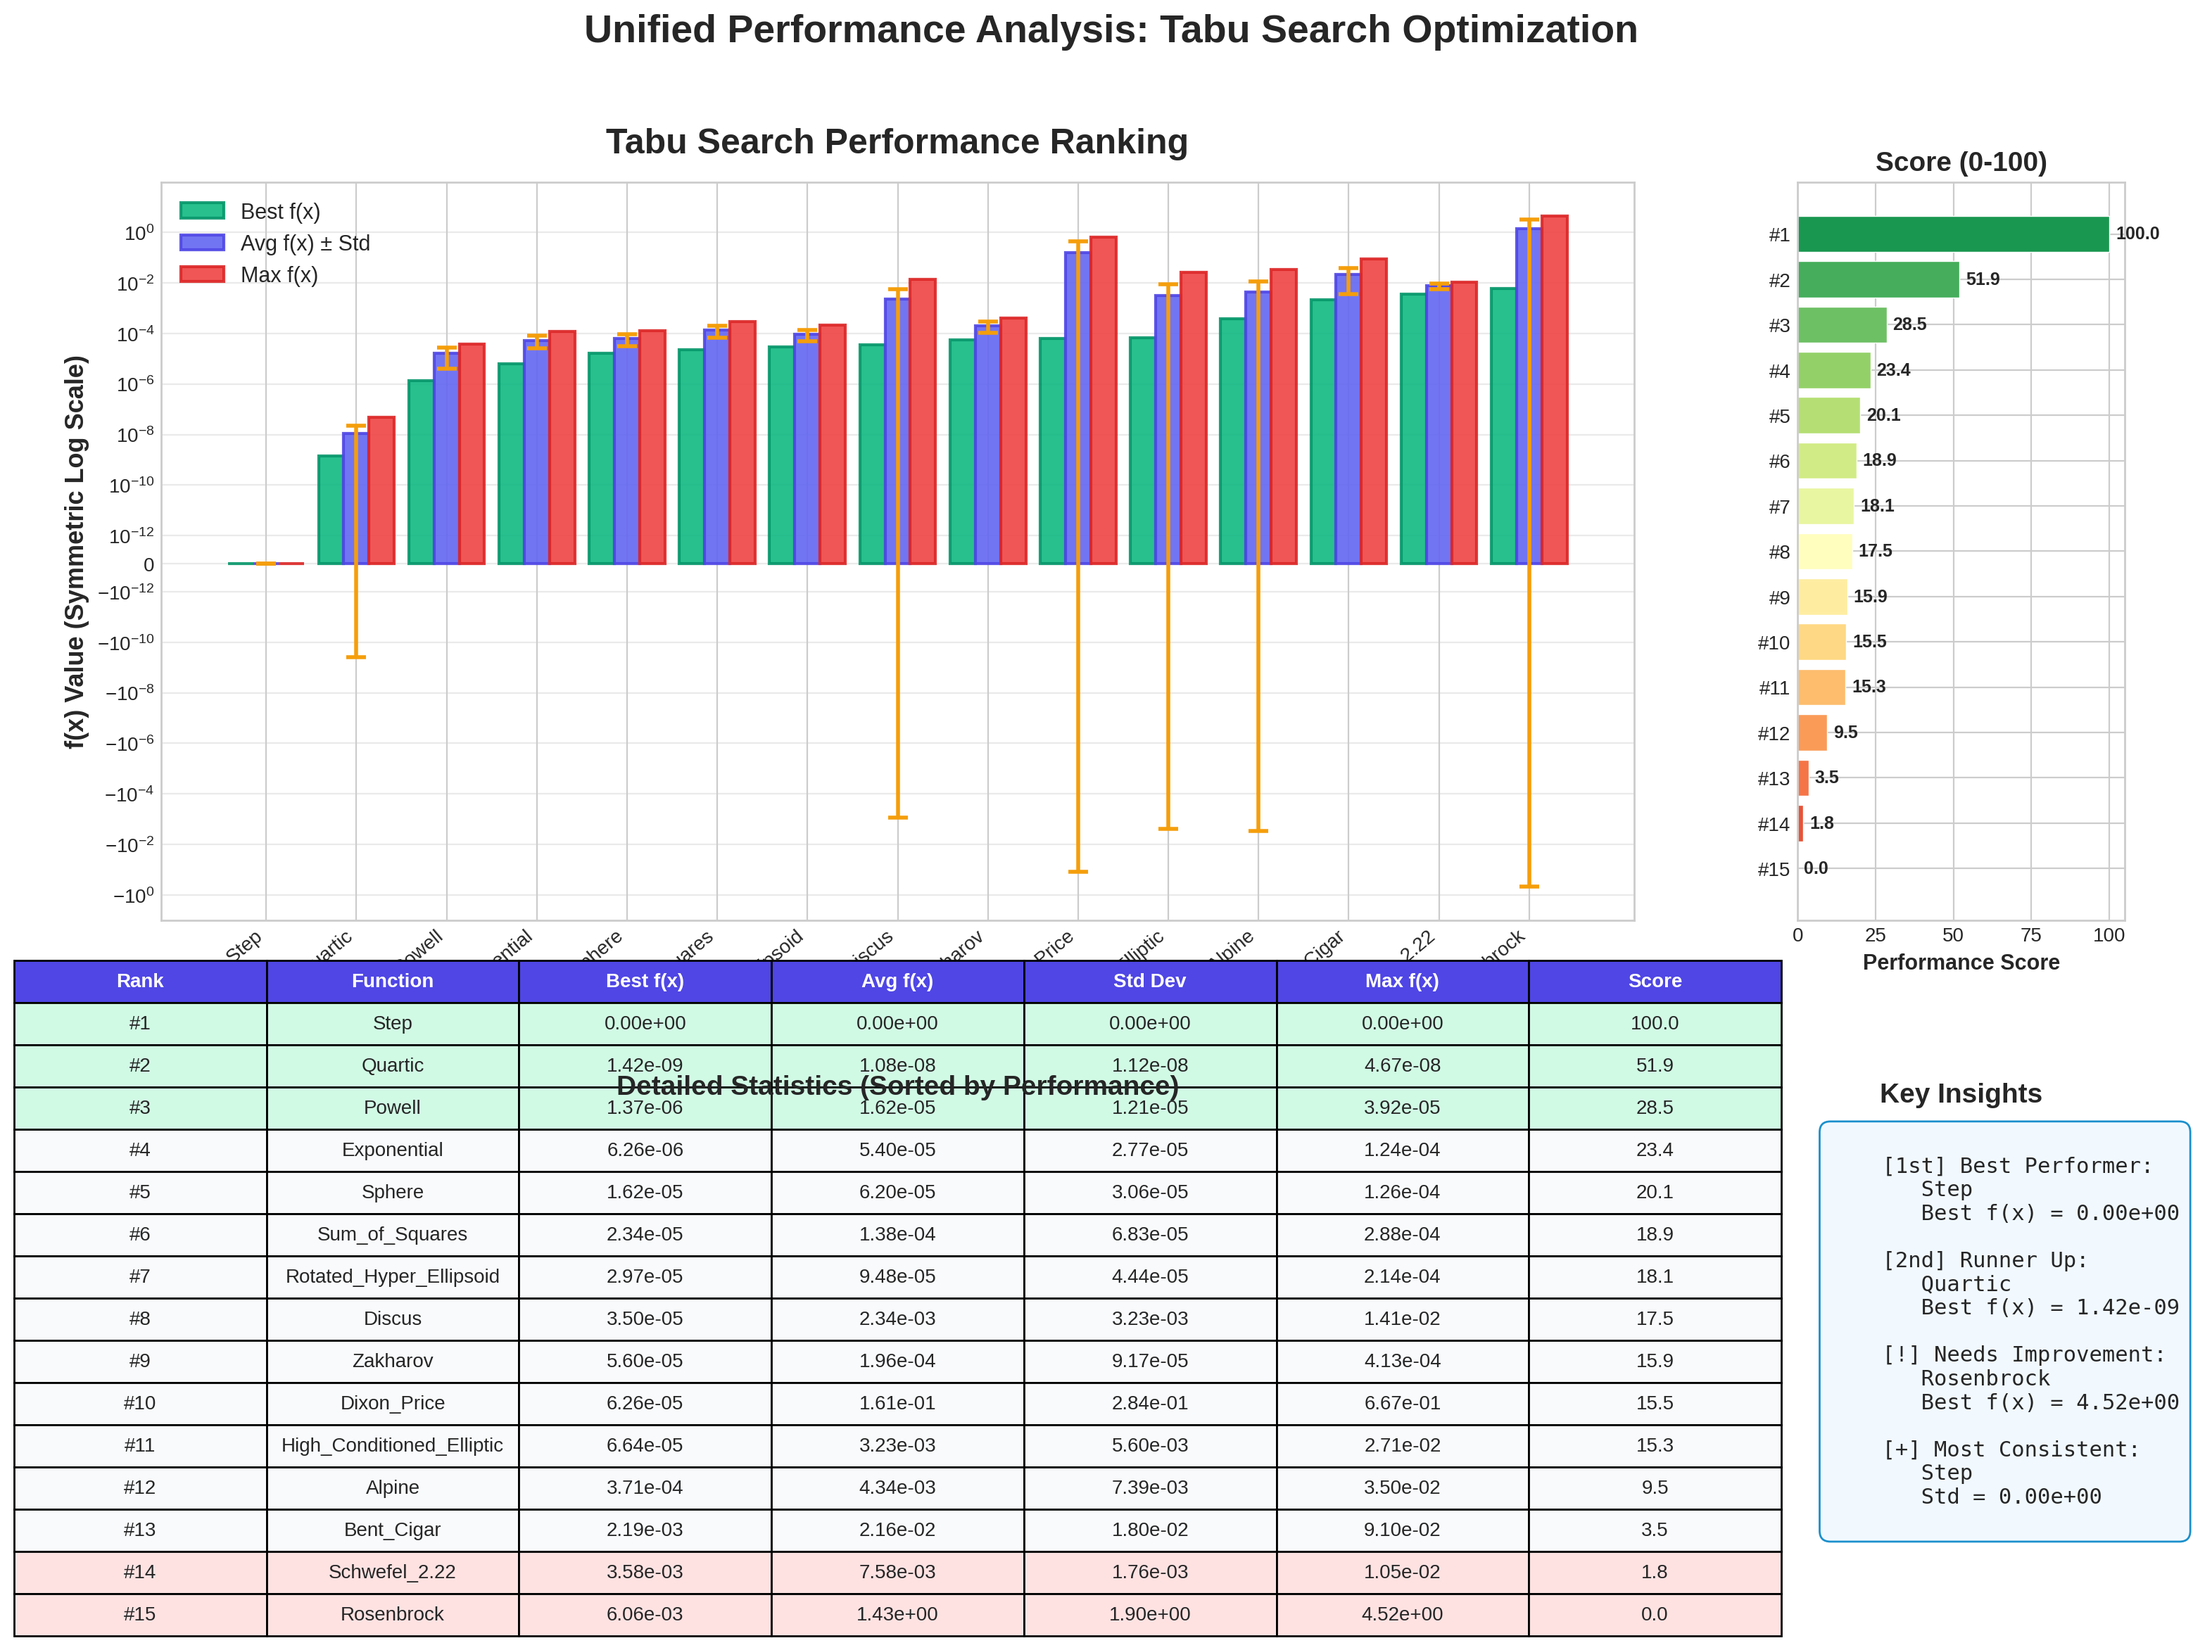
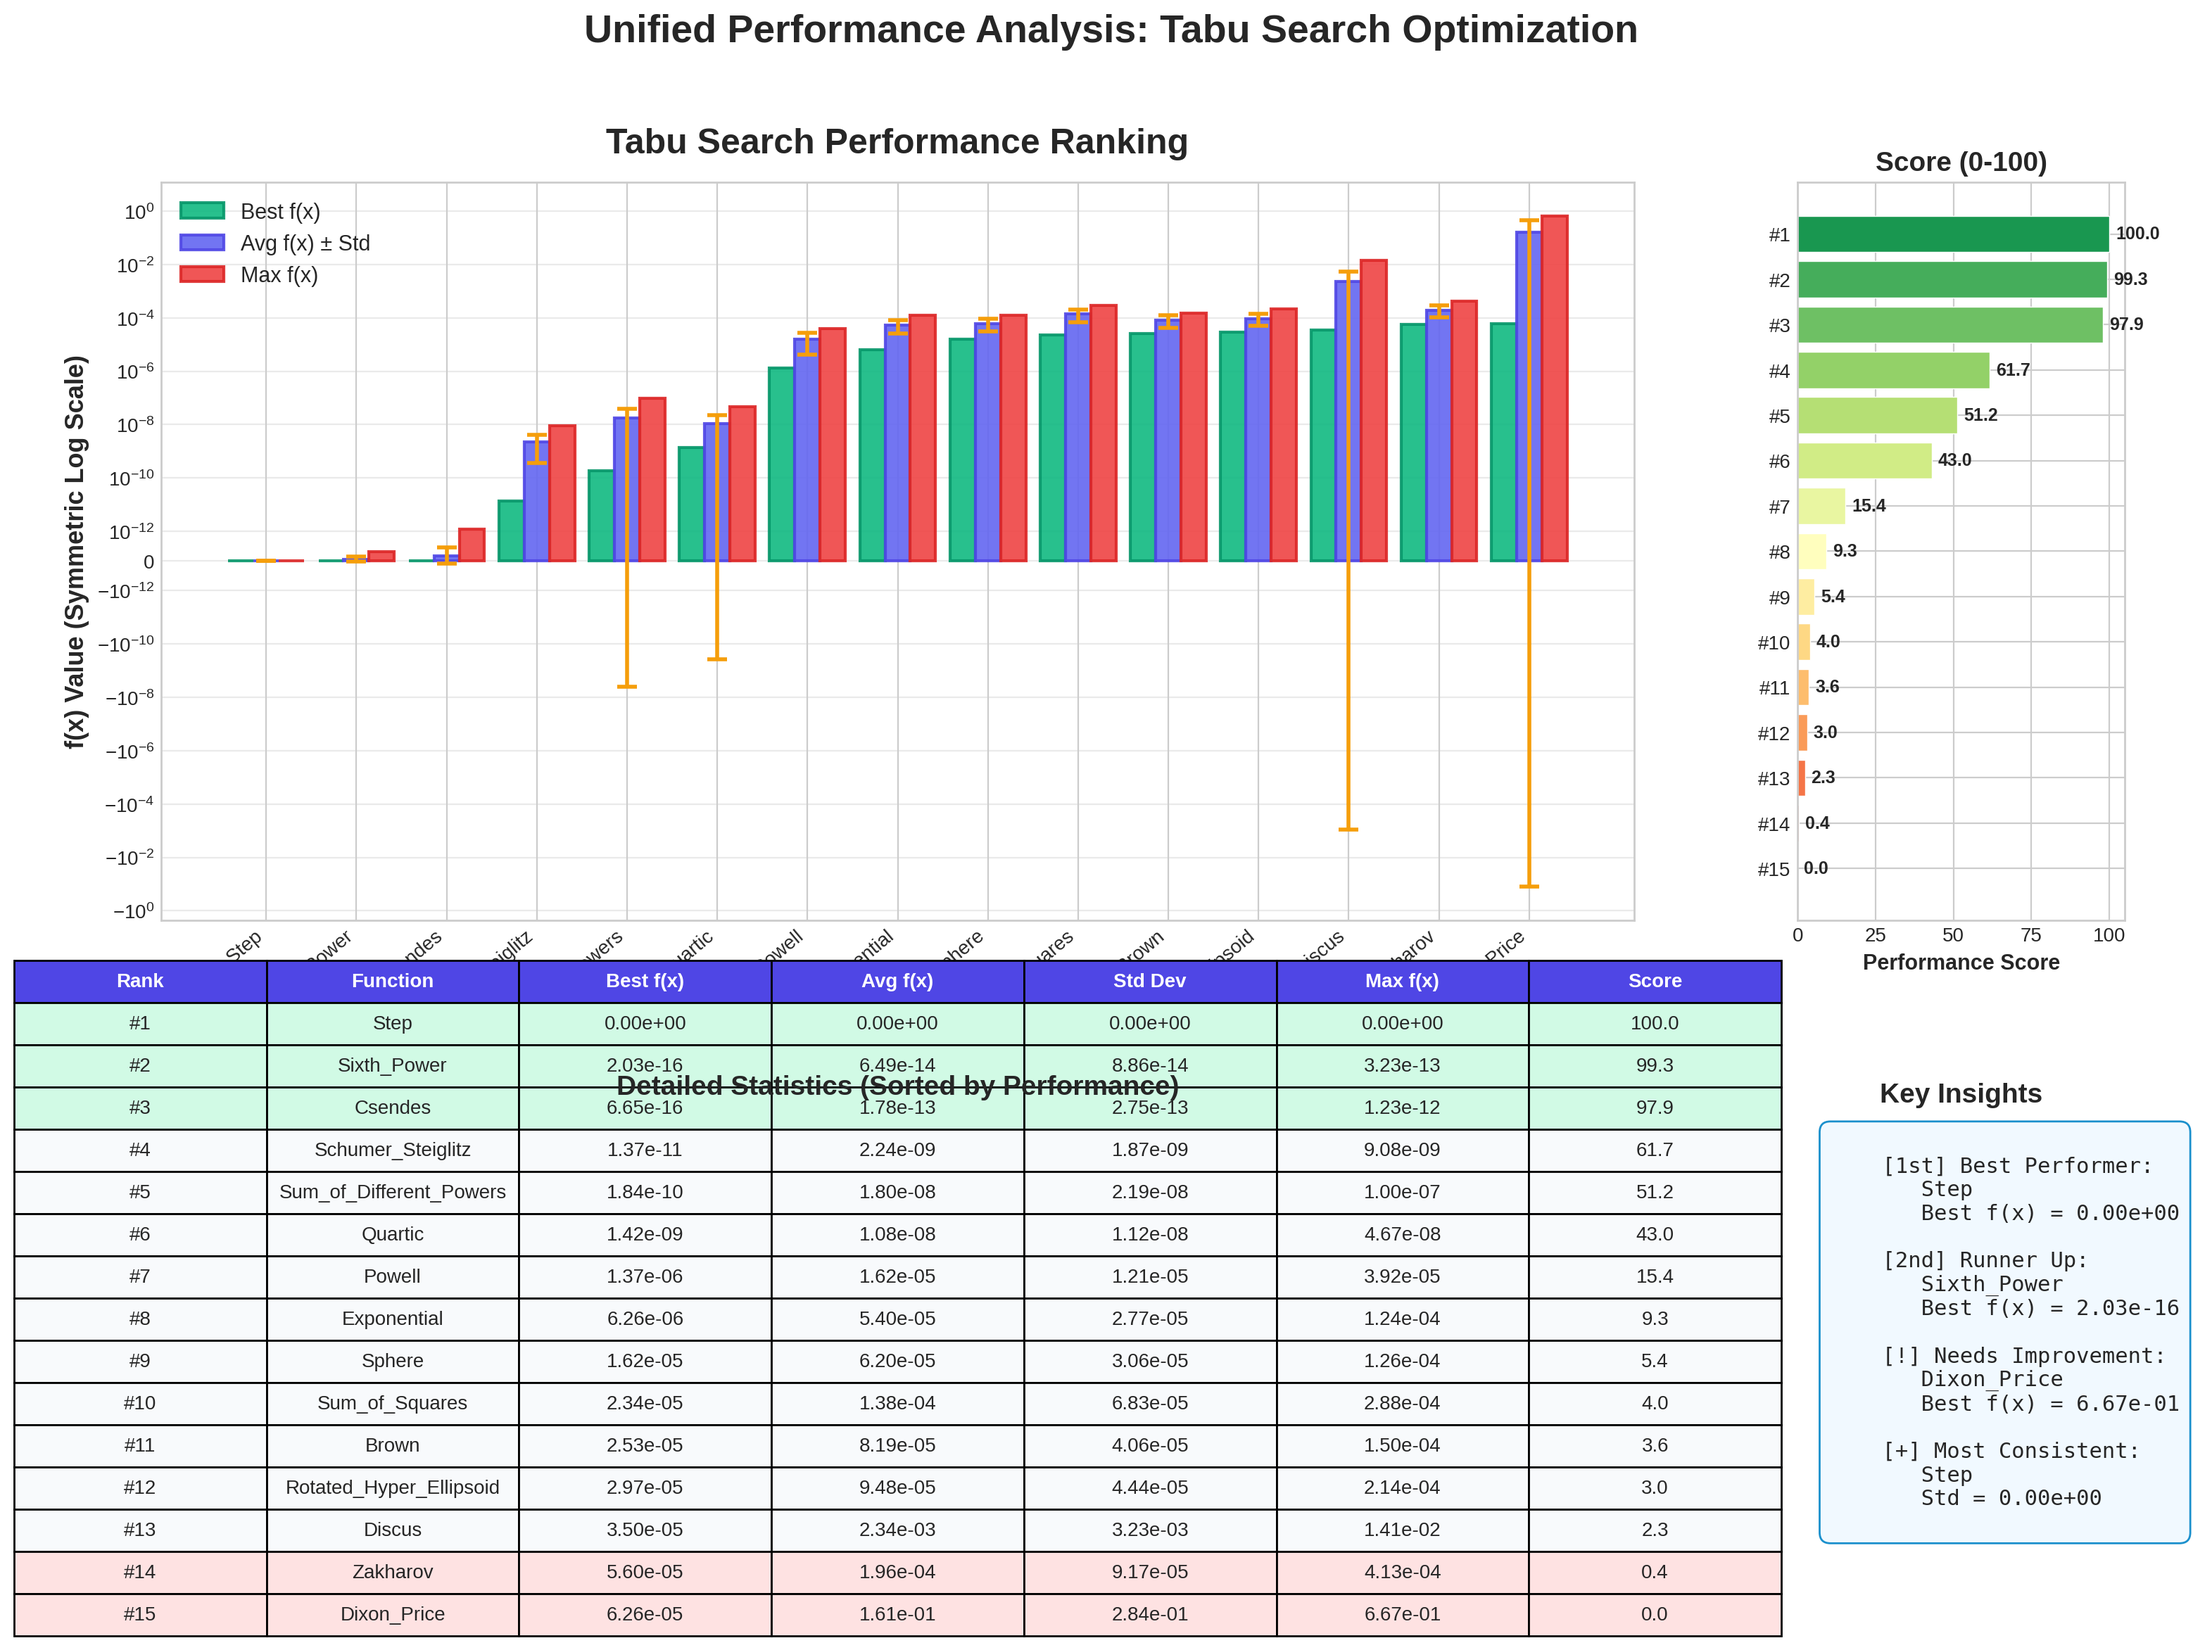
func added

diff --git a/func.py b/func.py
@@ -16,13 +16,13 @@ def sum_of_squares(x):
     """
     return sum((i + 1) * xi**2 for i, xi in enumerate(x))
 
-def schwefel_222(x):
+def sum_of_different_powers(x):
     """
-    Schwefel 2.22 Function
+    Sum of Different Powers Function - Very easy
     Global minimum: f(0, ..., 0) = 0
-    Search domain: [-10, 10]
+    Search domain: [-1, 1]
     """
-    return sum(abs(xi) for xi in x) + math.prod(abs(xi) for xi in x)
+    return sum(abs(xi) ** (i + 2) for i, xi in enumerate(x))
 
 def step(x):
     """
@@ -32,13 +32,14 @@ def step(x):
     """
     return sum(int(i)**2 for i in x)
 
-def rosenbrock(x):
+def brown(x):
     """
-    Rosenbrock Function - Valley-shaped
-    Global minimum: f(1, ..., 1) = 0
-    Search domain: [-5, 10]
+    Brown Function - Smooth unimodal
+    Global minimum: f(0, ..., 0) = 0
+    Search domain: [-1, 4]
     """
-    return sum(100 * (x[i+1] - x[i]**2)**2 + (1 - x[i])**2 for i in range(len(x)-1))
+    n = len(x)
+    return sum((x[i]**2) ** (x[i+1]**2 + 1) + (x[i+1]**2) ** (x[i]**2 + 1) for i in range(n - 1))
 
 def zakharov(x):
     """
@@ -61,30 +62,29 @@ def dixon_price(x):
     term2 = sum((i + 1) * (2 * x[i]**2 - x[i-1])**2 for i in range(1, n))
     return term1 + term2
 
-def bent_cigar(x):
+def schumer_steiglitz(x):
     """
-    Bent Cigar Function
-    Global minimum: f(0, ..., 0) = 0
-    Search domain: [-100, 100]
-    """
-    return x[0]**2 + 1e6 * sum(xi**2 for xi in x[1:])
-
-def high_conditioned_elliptic(x):
-    """
-    High-Conditioned Elliptic Function
-    Global minimum: f(0, ..., 0) = 0
-    Search domain: [-100, 100]
-    """
-    n = len(x)
-    return sum((1e6 ** ((i) / (n - 1))) * xi**2 for i, xi in enumerate(x))
-
-def alpine(x):
-    """
-    Alpine Function (Alpine N.1)
+    Schumer Steiglitz Function - Sum of fourth powers
     Global minimum: f(0, ..., 0) = 0
     Search domain: [-10, 10]
     """
-    return sum(abs(xi * math.sin(xi) + 0.1 * xi) for xi in x)
+    return sum(xi**4 for xi in x)
+
+def csendes(x):
+    """
+    Csendes Function - Simple smooth function
+    Global minimum: f(0, ..., 0) = 0
+    Search domain: [-1, 1]
+    """
+    return sum(xi**6 * (2 + math.sin(1 / (xi + 1e-10))) for xi in x)
+
+def sixth_power(x):
+    """
+    Sixth Power Function - Smooth, similar to Csendes
+    Global minimum: f(0, ..., 0) = 0
+    Search domain: [-1, 1]
+    """
+    return sum(xi**6 for xi in x)
 
 def powell(x):
     """

diff --git a/main.py b/main.py
@@ -5,8 +5,8 @@ Runs all functions concurrently for faster execution.
 
 from run_tabu import run_tabu
 from func import (
-    sphere, sum_of_squares, schwefel_222, step, rosenbrock,
-    zakharov, dixon_price, bent_cigar, high_conditioned_elliptic, alpine,
+    sphere, sum_of_squares, sum_of_different_powers, step, brown,
+    zakharov, dixon_price, schumer_steiglitz, csendes, sixth_power,
     powell, quartic, rotated_hyper_ellipsoid, discus, exponential
 )
 from concurrent.futures import ProcessPoolExecutor
@@ -38,13 +38,13 @@ experiments = [
     ("Sum_of_Squares", sum_of_squares, 25, 6, 1200, (-10, 10), STANDARD_DIMS),
     
     # Schwefel 2.22 - needs more exploration
-    ("Schwefel_2.22", schwefel_222, 35, 10, 1500, (-5, 5), STANDARD_DIMS),  # Reduced bounds
+    ("Sum_of_Different_Powers", sum_of_different_powers, 25, 6, 1200, (-1, 1), STANDARD_DIMS),
     
     # Step - discontinuous (already perfect)
     ("Step", step, 50, 15, 1500, (-5.12, 5.12), STANDARD_DIMS),
     
-    # Rosenbrock - valley-shaped, needs careful tuning
-    ("Rosenbrock", rosenbrock, 40, 10, 1500, (-2, 5), STANDARD_DIMS),  # Reduced bounds closer to optimal
+    # Brown - smooth unimodal
+    ("Brown", brown, 25, 6, 1200, (-1, 4), STANDARD_DIMS),
     
     # Zakharov - unimodal, bowl-shaped
     ("Zakharov", zakharov, 25, 7, 1200, (-5, 10), STANDARD_DIMS),
@@ -52,14 +52,14 @@ experiments = [
     # Dixon-Price - non-separable
     ("Dixon_Price", dixon_price, 35, 9, 1500, (-10, 10), STANDARD_DIMS),
     
-    # Bent_Cigar - reduce bounds significantly for ill-conditioned
-    ("Bent_Cigar", bent_cigar, 50, 12, 1500, (-10, 10), STANDARD_DIMS),  # Much smaller bounds
+    # Schumer_Steiglitz - sum of fourth powers
+    ("Schumer_Steiglitz", schumer_steiglitz, 25, 6, 1200, (-10, 10), STANDARD_DIMS),
     
-    # High-Conditioned Elliptic - reduce bounds
-    ("High_Conditioned_Elliptic", high_conditioned_elliptic, 50, 12, 1500, (-10, 10), STANDARD_DIMS),  # Smaller bounds
+    # Csendes - smooth function
+    ("Csendes", csendes, 25, 6, 1200, (-1, 1), STANDARD_DIMS),
     
-    # Alpine - needs more neighbors for multimodal
-    ("Alpine", alpine, 40, 10, 1500, (-5, 5), STANDARD_DIMS),  # Reduced bounds
+    # Sixth Power - smooth like Csendes
+    ("Sixth_Power", sixth_power, 25, 6, 1200, (-1, 1), STANDARD_DIMS),
     
     # Powell - non-separable (dims=4)
     ("Powell", powell, 35, 9, 1500, (-4, 5), 4),
